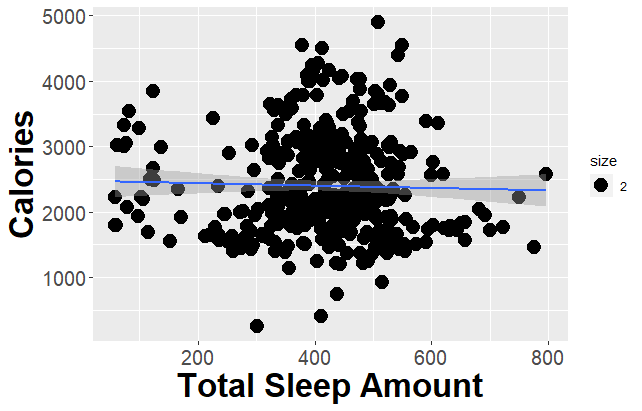
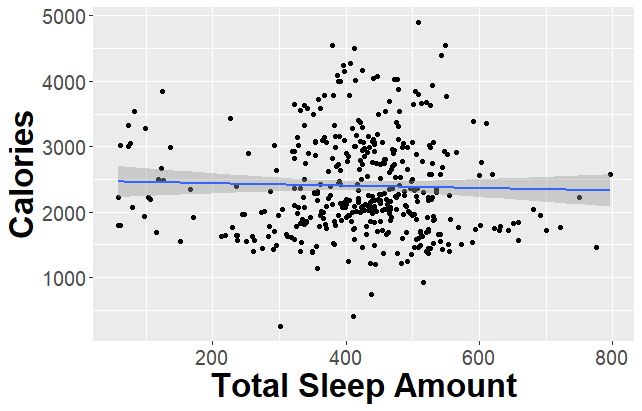
Add files via upload

diff --git a/index.html b/index.html
@@ -147,7 +147,7 @@
       
 
   <article class="cf ph3 ph5-l pv3 pv4-l f4 tc-l center measure-wide lh-copy mid-gray">
-    <p>Welcome to my Data Analytics Portfolio.</p>
+    <p>Welcome to my Data Analytics Portfolio. Check out some of my Tableau Visualizations at <a href="https://public.tableau.com/profile/christian.tan8038#!/">https://public.tableau.com/profile/christian.tan8038#!/</a></p>
 
   </article>
   
@@ -182,43 +182,6 @@
           
         
         <div class="pr3-ns mb4 mb0-ns w-100 w-40-ns">
-          <a href="https://ctan1237.github.io/Christian_Portfolio/post/project-1/" class="db grow">
-            <img src="https://ctan1237.github.io/Christian_Portfolio/images/bike.jpg" class="img" alt="image from Cyclistic - How a Bike-Share Company Can Navigate Speedy Success">
-          </a>
-        </div>
-      
-      <div class="blah w-100 w-60-ns pl3-ns">
-        <h1 class="f3 fw1 athelas mt0 lh-title">
-          <a href="https://ctan1237.github.io/Christian_Portfolio/post/project-1/" class="color-inherit dim link">
-            Cyclistic - How a Bike-Share Company Can Navigate Speedy Success
-            </a>
-        </h1>
-        <div class="f6 f5-l lh-copy nested-copy-line-height nested-links">
-          Table of Contents   Mission Statement and Preliminary Information
-  Data Preparation and Exploration
-  Data Processing
-  Data Analyzing
-  Share and Conclusion
-  Mission Statement: The bike sharing company wants to analyze their users’ data to find the main differences between two certain types of users, the “casual” who pays for each ride and the “annual” member who pays a yearly subscription for the service.
-        </div>
-          <a href="https://ctan1237.github.io/Christian_Portfolio/post/project-1/" class="ba b--moon-gray bg-light-gray br2 color-inherit dib f7 hover-bg-moon-gray link mt2 ph2 pv1">read more</a>
-        
-      </div>
-    </div>
-  </div>
-</article>
-
-          </div>
-        
-          <div class="relative w-100 mb4">
-            
-<article class="bb b--black-10">
-  <div class="db pv4 ph3 ph0-l no-underline dark-gray">
-    <div class="flex flex-column flex-row-ns">
-      
-          
-        
-        <div class="pr3-ns mb4 mb0-ns w-100 w-40-ns">
           <a href="https://ctan1237.github.io/Christian_Portfolio/post/project-3/" class="db grow">
             <img src="https://ctan1237.github.io/Christian_Portfolio/images/bella_beat_2.jpg" class="img" alt="image from Bellabeat - 3 Ways a Wellness Tech Company Can Play It Smart">
           </a>
@@ -239,6 +202,43 @@
   The Mission Statement: Bellabeat, a high-tech manufacturer of health-focused products for women, wants to analyze their smart device fitness data. This could help unlock new growth opportunities for the company. The goal is to focus on one of Bellabeat’s products and analyze smart device data to gain insight into how consumers are using their smart devices.
         </div>
           <a href="https://ctan1237.github.io/Christian_Portfolio/post/project-3/" class="ba b--moon-gray bg-light-gray br2 color-inherit dib f7 hover-bg-moon-gray link mt2 ph2 pv1">read more</a>
+        
+      </div>
+    </div>
+  </div>
+</article>
+
+          </div>
+        
+          <div class="relative w-100 mb4">
+            
+<article class="bb b--black-10">
+  <div class="db pv4 ph3 ph0-l no-underline dark-gray">
+    <div class="flex flex-column flex-row-ns">
+      
+          
+        
+        <div class="pr3-ns mb4 mb0-ns w-100 w-40-ns">
+          <a href="https://ctan1237.github.io/Christian_Portfolio/post/project-1/" class="db grow">
+            <img src="https://ctan1237.github.io/Christian_Portfolio/images/bike.jpg" class="img" alt="image from Cyclistic - How a Bike-Share Company Can Navigate Speedy Success">
+          </a>
+        </div>
+      
+      <div class="blah w-100 w-60-ns pl3-ns">
+        <h1 class="f3 fw1 athelas mt0 lh-title">
+          <a href="https://ctan1237.github.io/Christian_Portfolio/post/project-1/" class="color-inherit dim link">
+            Cyclistic - How a Bike-Share Company Can Navigate Speedy Success
+            </a>
+        </h1>
+        <div class="f6 f5-l lh-copy nested-copy-line-height nested-links">
+          Table of Contents   Mission Statement and Preliminary Information
+  Data Preparation and Exploration
+  Data Processing
+  Data Analyzing
+  Share and Conclusion
+  Mission Statement: The bike sharing company wants to analyze their users’ data to find the main differences between two certain types of users, the “casual” who pays for each ride and the “annual” member who pays a yearly subscription for the service.
+        </div>
+          <a href="https://ctan1237.github.io/Christian_Portfolio/post/project-1/" class="ba b--moon-gray bg-light-gray br2 color-inherit dib f7 hover-bg-moon-gray link mt2 ph2 pv1">read more</a>
         
       </div>
     </div>

diff --git a/post/project-3/index.html b/post/project-3/index.html
@@ -34,13 +34,13 @@
 <meta property="og:description" content="This analysis is for a case study for the Google Analytics Certificate. " />
 <meta property="og:type" content="article" />
 <meta property="og:url" content="https://ctan1237.github.io/Christian_Portfolio/post/project-3/" /><meta property="article:section" content="post" />
-<meta property="article:published_time" content="2020-04-09T10:58:08-04:00" />
-<meta property="article:modified_time" content="2020-04-09T10:58:08-04:00" /><meta property="og:site_name" content="Christian Tan" />
+<meta property="article:published_time" content="2021-04-09T10:58:08-04:00" />
+<meta property="article:modified_time" content="2021-04-09T10:58:08-04:00" /><meta property="og:site_name" content="Christian Tan" />
 
 <meta itemprop="name" content="Bellabeat - 3 Ways a Wellness Tech Company Can Play It Smart">
-<meta itemprop="description" content="This analysis is for a case study for the Google Analytics Certificate. "><meta itemprop="datePublished" content="2020-04-09T10:58:08-04:00" />
-<meta itemprop="dateModified" content="2020-04-09T10:58:08-04:00" />
-<meta itemprop="wordCount" content="1421">
+<meta itemprop="description" content="This analysis is for a case study for the Google Analytics Certificate. "><meta itemprop="datePublished" content="2021-04-09T10:58:08-04:00" />
+<meta itemprop="dateModified" content="2021-04-09T10:58:08-04:00" />
+<meta itemprop="wordCount" content="1385">
 <meta itemprop="keywords" content="" /><meta name="twitter:card" content="summary"/>
 <meta name="twitter:title" content="Bellabeat - 3 Ways a Wellness Tech Company Can Play It Smart"/>
 <meta name="twitter:description" content="This analysis is for a case study for the Google Analytics Certificate. "/>
@@ -188,7 +188,7 @@
       <h1 class="f1 athelas mt3 mb1">Bellabeat - 3 Ways a Wellness Tech Company Can Play It Smart</h1>
       
       
-      <time class="f6 mv4 dib tracked" datetime="2020-04-09T10:58:08-04:00">April 9, 2020</time>
+      <time class="f6 mv4 dib tracked" datetime="2021-04-09T10:58:08-04:00">April 9, 2021</time>
 
       
       
@@ -368,18 +368,16 @@ daily_activity_sleep &lt;- daily_activity_sleep %&gt;%
   theme(axis.text.y = element_text(size = 15), axis.text.x = element_text(size=15))+
   theme( axis.title.x = element_text(color = &quot;black&quot;, size = 25, face = &quot;bold&quot;),
          axis.title.y = element_text(color = &quot;black&quot;, size = 25, face = &quot;bold&quot;))
-</code></pre>
-<figure><img src="https://ctan1237.github.io/Christian_Portfolio/images/calories%20vs%20total%20sleep%20amount%20scatterplot%20and%20trendline.png"/>
-</figure>
 
-<p>Based on this scatterplot, the trendline initially shows there isn&rsquo;t any correlation between calories burnt and amount of sleep, but on further analysis in the next graph using a box plot, we can see &hellip;</p>
-<pre><code>ggplot(data = daily_activity_sleep) +
+
+
+ggplot(data = daily_activity_sleep) +
   geom_boxplot(mapping = aes(x=step_categories, y=Calories, fill=step_categories))
 </code></pre>
-<p><figure><img src="https://ctan1237.github.io/Christian_Portfolio/images/sleep%20vs%20calories%20burnt.png"/>
+<figure><img src="https://ctan1237.github.io/Christian_Portfolio/images/sleep%20vs%20calories%20burnt.png"/>
 </figure>
 
-&hellip; there seems to be a clear relation between sleep and calories burnt.</p>
+<p>There seems to be a clear relation between sleep and calories burnt.</p>
 <p>This is an interesting chart, which shows a few unique observations -</p>
 <ul>
 <li>

diff --git a/post/index.html b/post/index.html
@@ -158,31 +158,6 @@
       </div>
     
     <h1 class="f3 near-black">
-      <a href="https://ctan1237.github.io/Christian_Portfolio/post/project-1/" class="link black dim">
-        Cyclistic - How a Bike-Share Company Can Navigate Speedy Success
-      </a>
-    </h1>
-    <div class="nested-links f5 lh-copy nested-copy-line-height">
-      Table of Contents   Mission Statement and Preliminary Information
-  Data Preparation and Exploration
-  Data Processing
-  Data Analyzing
-  Share and Conclusion
-  Mission Statement: The bike sharing company wants to analyze their users’ data to find the main differences between two certain types of users, the “casual” who pays for each ride and the “annual” member who pays a yearly subscription for the service.
-    </div>
-  </div>
-
-        </div>
-      
-        <div class="relative w-100 w-30-l mb4 bg-white">
-          
-            <div class="mb3 pa4 mid-gray overflow-hidden">
-    
-      <div class="f6">
-        April 9, 2020
-      </div>
-    
-    <h1 class="f3 near-black">
       <a href="https://ctan1237.github.io/Christian_Portfolio/post/project-3/" class="link black dim">
         Bellabeat - 3 Ways a Wellness Tech Company Can Play It Smart
       </a>
@@ -204,7 +179,32 @@
             <div class="mb3 pa4 mid-gray overflow-hidden">
     
       <div class="f6">
-        April 9, 2020
+        April 9, 2021
+      </div>
+    
+    <h1 class="f3 near-black">
+      <a href="https://ctan1237.github.io/Christian_Portfolio/post/project-1/" class="link black dim">
+        Cyclistic - How a Bike-Share Company Can Navigate Speedy Success
+      </a>
+    </h1>
+    <div class="nested-links f5 lh-copy nested-copy-line-height">
+      Table of Contents   Mission Statement and Preliminary Information
+  Data Preparation and Exploration
+  Data Processing
+  Data Analyzing
+  Share and Conclusion
+  Mission Statement: The bike sharing company wants to analyze their users’ data to find the main differences between two certain types of users, the “casual” who pays for each ride and the “annual” member who pays a yearly subscription for the service.
+    </div>
+  </div>
+
+        </div>
+      
+        <div class="relative w-100 w-30-l mb4 bg-white">
+          
+            <div class="mb3 pa4 mid-gray overflow-hidden">
+    
+      <div class="f6">
+        April 9, 2021
       </div>
     
     <h1 class="f3 near-black">

diff --git a/post/project-2/index.html b/post/project-2/index.html
@@ -34,12 +34,12 @@
 <meta property="og:description" content="This analysis is for my final project in my Big Data Analytics class. " />
 <meta property="og:type" content="article" />
 <meta property="og:url" content="https://ctan1237.github.io/Christian_Portfolio/post/project-2/" /><meta property="article:section" content="post" />
-<meta property="article:published_time" content="2020-04-09T10:58:08-04:00" />
-<meta property="article:modified_time" content="2020-04-09T10:58:08-04:00" /><meta property="og:site_name" content="Christian Tan" />
+<meta property="article:published_time" content="2021-04-09T10:58:08-04:00" />
+<meta property="article:modified_time" content="2021-04-09T10:58:08-04:00" /><meta property="og:site_name" content="Christian Tan" />
 
 <meta itemprop="name" content="The NBA 3-Point Revolution - The Way For NBA Teams to Win More Games">
-<meta itemprop="description" content="This analysis is for my final project in my Big Data Analytics class. "><meta itemprop="datePublished" content="2020-04-09T10:58:08-04:00" />
-<meta itemprop="dateModified" content="2020-04-09T10:58:08-04:00" />
+<meta itemprop="description" content="This analysis is for my final project in my Big Data Analytics class. "><meta itemprop="datePublished" content="2021-04-09T10:58:08-04:00" />
+<meta itemprop="dateModified" content="2021-04-09T10:58:08-04:00" />
 <meta itemprop="wordCount" content="824">
 <meta itemprop="keywords" content="" /><meta name="twitter:card" content="summary"/>
 <meta name="twitter:title" content="The NBA 3-Point Revolution - The Way For NBA Teams to Win More Games"/>
@@ -188,7 +188,7 @@
       <h1 class="f1 athelas mt3 mb1">The NBA 3-Point Revolution - The Way For NBA Teams to Win More Games</h1>
       
       
-      <time class="f6 mv4 dib tracked" datetime="2020-04-09T10:58:08-04:00">April 9, 2020</time>
+      <time class="f6 mv4 dib tracked" datetime="2021-04-09T10:58:08-04:00">April 9, 2021</time>
 
       
       

diff --git a/about/index.html b/about/index.html
@@ -147,7 +147,7 @@
     <section class="cf ph3 ph5-l pv3 pv4-l f4 tc-l center measure-wide lh-copy mid-gray"><figure><img src="https://ctan1237.github.io/Christian_Portfolio/images/LinkedIn_Profile.jpg"/>
 </figure>
 
-<p>Hey, I&rsquo;m Christian! I&rsquo;m a versatile individual with experience collecting, transforming, and organizing data for analysis to help make informed decisions. I have an excellent understanding and proficiency of platforms for effective data analyses, including SQL, spreadsheets, Tableau, and R. Other strengths include communication, organizational, and analytical skills. I Recently graduated from the J. Mack Robinson College of Business from Georgia State University with a degree in Computer Information Systems with a concentration in data analytics. I also recently completed the Google Data Analytics Certificate - a rigorous, hands-on program that covers the entire scope of the data analysis process.</p>
+<p>Hey, I&rsquo;m Christian! I&rsquo;m a versatile individual with experience collecting, transforming, and organizing data for analysis to help make informed decisions. I have an excellent understanding and proficiency of platforms for effective data analyses, including SQL, spreadsheets, Tableau, and R. Other strengths include communication, organizational, and analytical skills. I recently graduated from the J. Mack Robinson College of Business from Georgia State University with a degree in Computer Information Systems with a concentration in data analytics. I also recently completed the Google Data Analytics Certificate - a rigorous, hands-on program that covers the entire scope of the data analysis process.</p>
 </section>
     <section class="flex-ns flex-wrap justify-around mt5">
       
